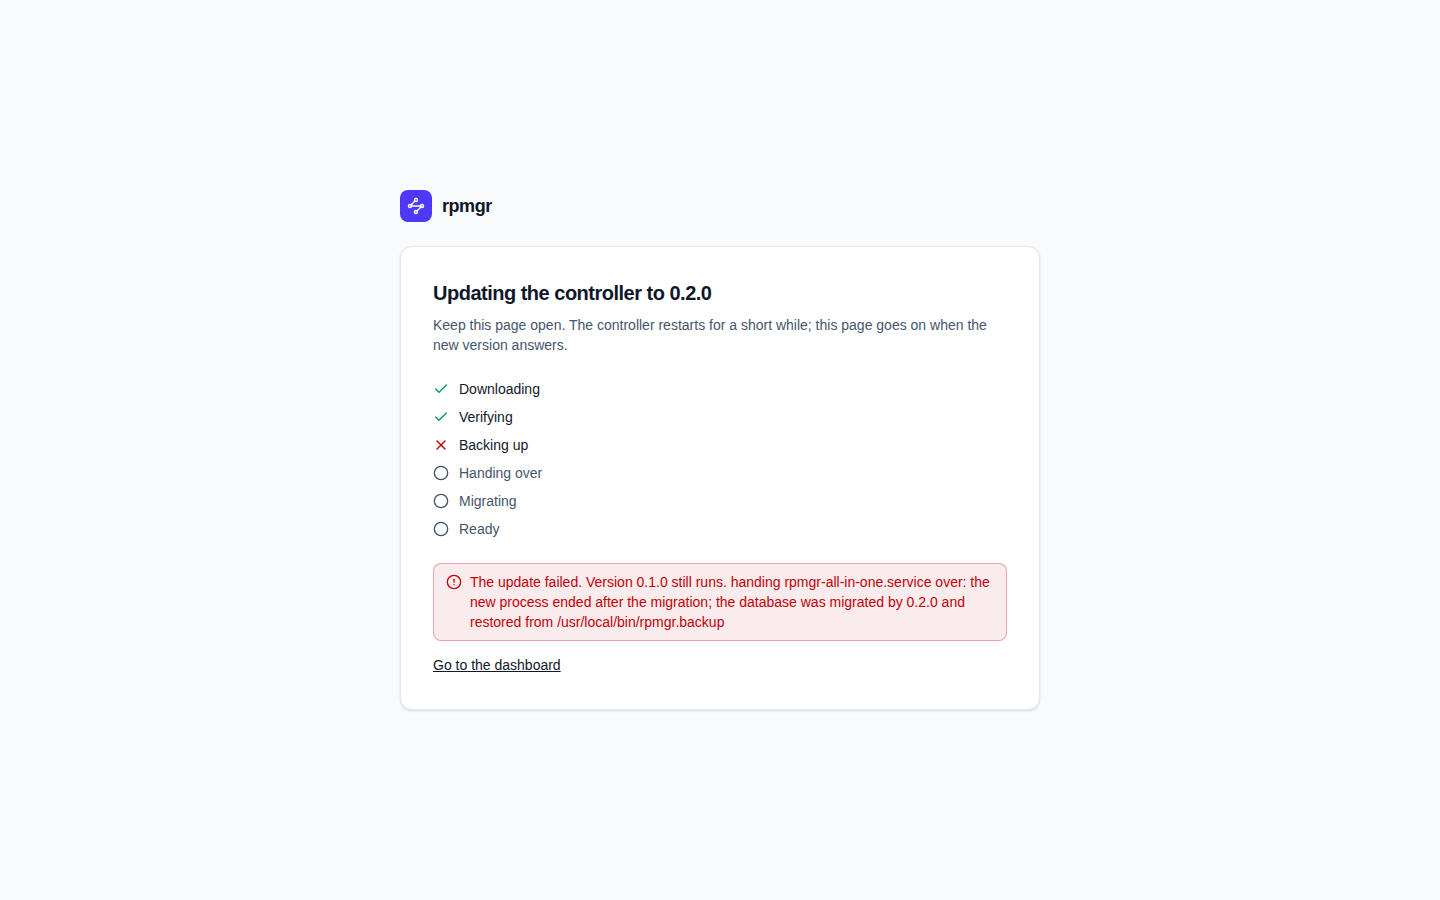
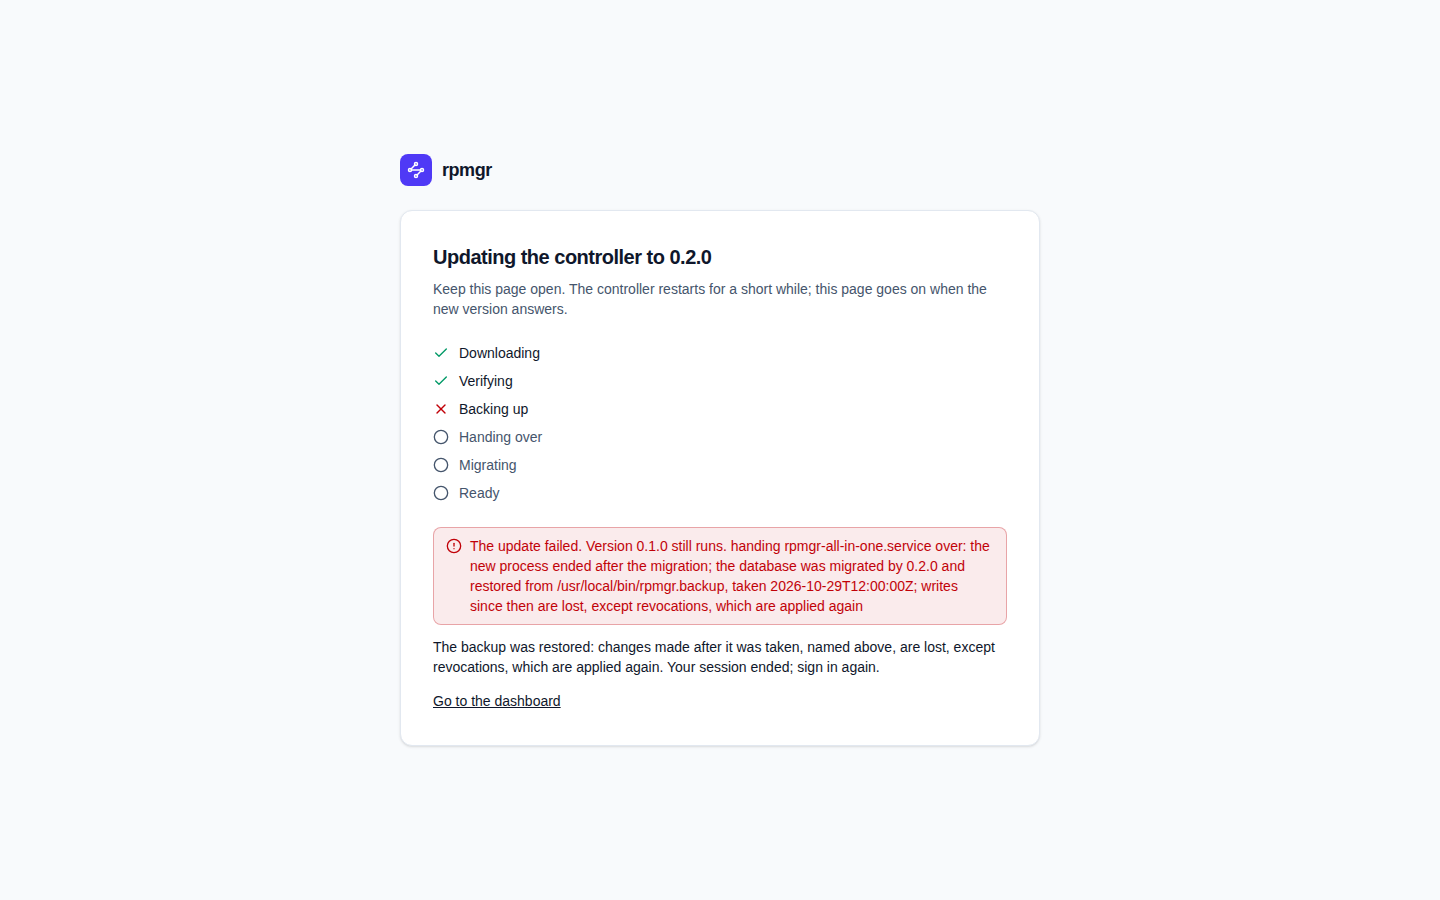
fix(api): expire a dead update, retake the failure screenshot
The 30 minute expiry of an updating status was applied after the state was read; it is applied first. The updating-failed screenshot shows the note about what a restore loses.

Part of #1006.

Changed region(s): [[0.2812, 0.28, 0.6875, 0.7467], [0.2812, 0.1556, 0.3438, 0.2489], [0.2812, 0.7778, 0.4062, 0.8089]]

diff --git a/web/screens/screens.spec.ts b/web/screens/screens.spec.ts
@@ -362,7 +362,7 @@ test("screenshots of the controller update", async ({ page }) => {
   await expect(page.getByRole("listitem").filter({ hasText: "Backing up" })).toHaveAttribute("aria-current", "step");
   await shot(page, "updating");
   update = { update: { version: "0.2.0", state: "CONTROLLER_UPDATE_STATE_ROLLED_BACK", previous: "0.1.0",
-    reason: "handing rpmgr-all-in-one.service over: the new process ended after the migration; the database was migrated by 0.2.0 and restored from /usr/local/bin/rpmgr.backup" } };
+    reason: "handing rpmgr-all-in-one.service over: the new process ended after the migration; the database was migrated by 0.2.0 and restored from /usr/local/bin/rpmgr.backup, taken 2026-10-29T12:00:00Z; writes since then are lost, except revocations, which are applied again" } };
   await expect(page.getByRole("alert")).toContainText("Version 0.1.0 still runs.");
   await shot(page, "updating-failed");
 });

diff --git a/internal/apisvc/selfupdate.go b/internal/apisvc/selfupdate.go
@@ -138,14 +138,14 @@ func (u *SelfUpdate) current(now time.Time) *rpmgrv1.ControllerUpdate {
 		return &rpmgrv1.ControllerUpdate{Version: staged, State: rpmgrv1.ControllerUpdateState_CONTROLLER_UPDATE_STATE_UPDATING,
 			Reason: "the updater's status cannot be read: " + err.Error()}
 	}
+	if err == nil && st.State == update.Updating && now.Sub(st.At) > updatingStale {
+		st = update.Status{} // an updater that stopped writing: no update is under way
+	}
 	state, known := map[string]rpmgrv1.ControllerUpdateState{update.Updating: rpmgrv1.ControllerUpdateState_CONTROLLER_UPDATE_STATE_UPDATING,
 		update.Updated:        rpmgrv1.ControllerUpdateState_CONTROLLER_UPDATE_STATE_UPDATED,
 		update.RolledBack:     rpmgrv1.ControllerUpdateState_CONTROLLER_UPDATE_STATE_ROLLED_BACK,
 		update.RollbackFailed: rpmgrv1.ControllerUpdateState_CONTROLLER_UPDATE_STATE_ROLLBACK_FAILED,
 		update.Refused:        rpmgrv1.ControllerUpdateState_CONTROLLER_UPDATE_STATE_REFUSED}[st.State]
-	if err == nil && st.State == update.Updating && now.Sub(st.At) > updatingStale {
-		st = update.Status{} // an updater that stopped writing: no update is under way
-	}
 	// The status counts only when it is newer than the request: an earlier outcome is history.
 	if err == nil && known && (staged == "" || (st.Version == staged && !st.At.Before(at))) {
 		return &rpmgrv1.ControllerUpdate{Version: st.Version, State: state, Step: st.Step, Reason: st.Reason, Previous: st.Previous,
